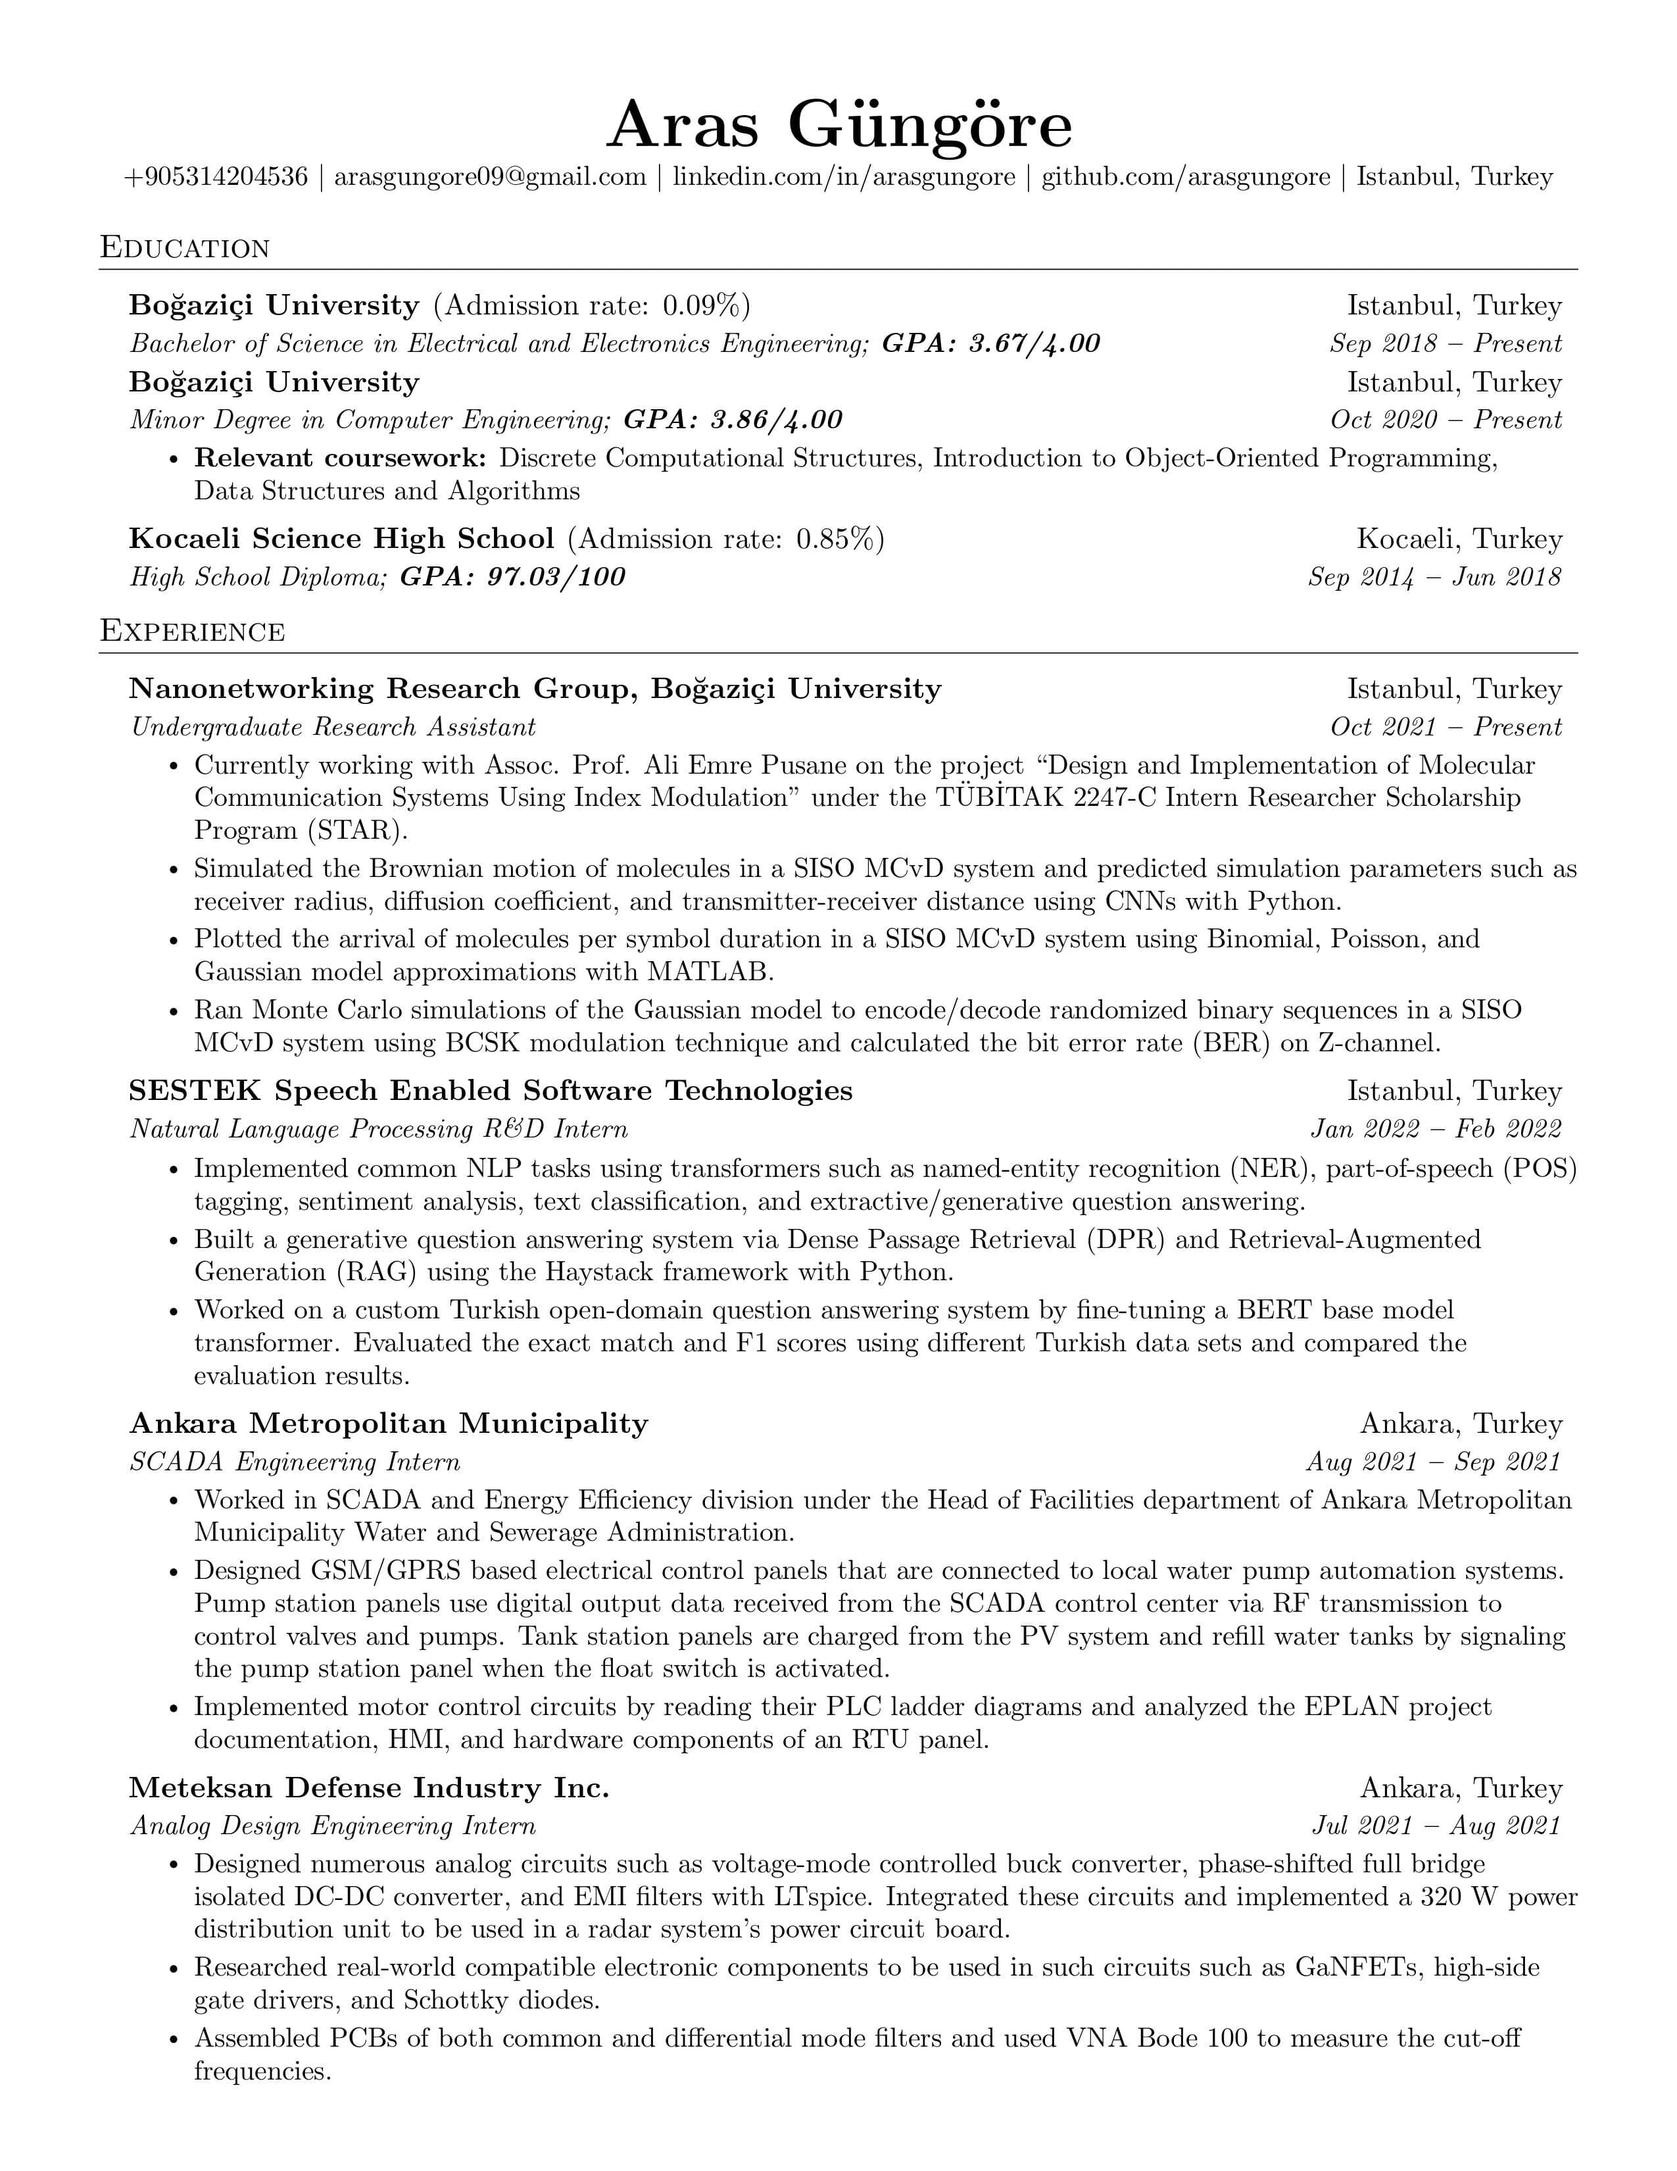
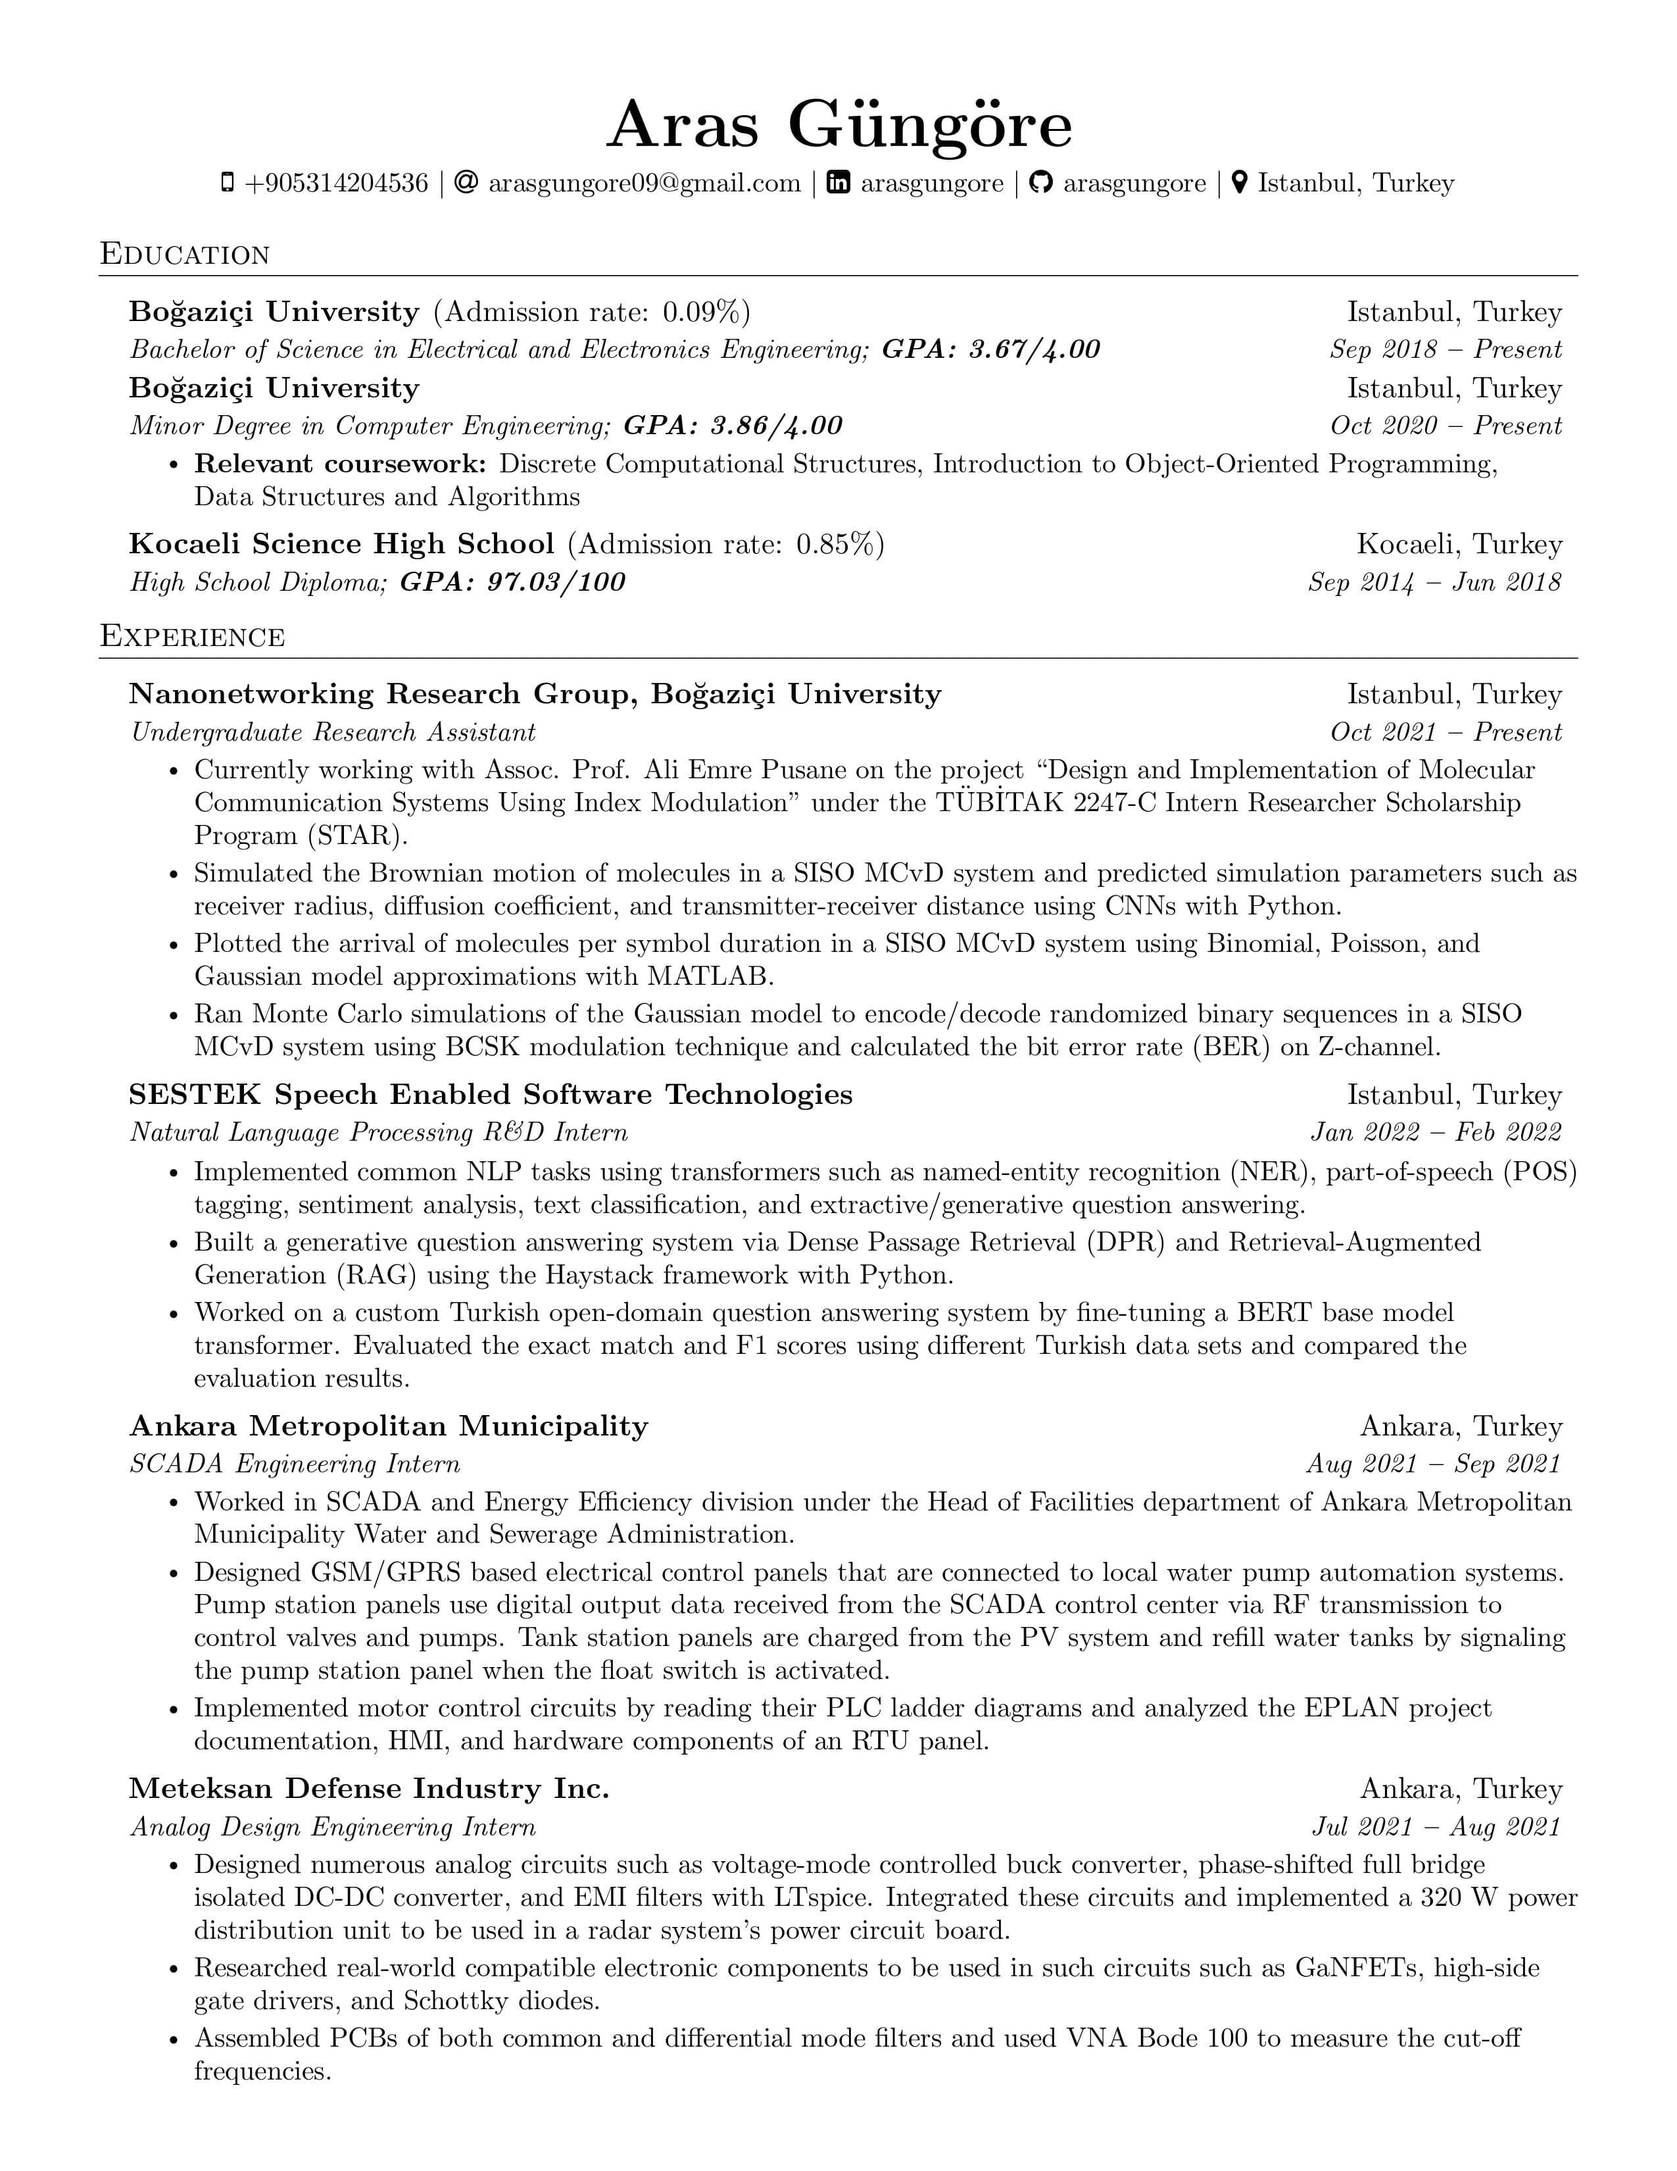
Updated contacts

diff --git a/main.tex b/main.tex
@@ -18,6 +18,7 @@
 \usepackage[english]{babel}
 \usepackage{tabularx}
 \usepackage{hyphenat}
+\usepackage{fontawesome}
 \input{glyphtounicode}
 
 
@@ -116,10 +117,16 @@
 %----------HEADING----------
 
 \begin{center}
-    \textbf{\Huge \scshape Aras Güngöre} \\ \vspace{1pt}
-    \small \href{tel:905314204536}{+905314204536} $|$ \href{mailto:arasgungore09@gmail.com}{arasgungore09@gmail.com} $|$ 
-    \href{https://www.linkedin.com/in/arasgungore}{linkedin.com/in/arasgungore} $|$
-    \href{https://github.com/arasgungore}{github.com/arasgungore} $|$ Istanbul, Turkey
+    \textbf{\Huge \scshape Aras Güngöre} \\ \vspace{3pt}
+    \small
+    \faMobile \hspace{.5pt} \href{tel:905314204536}{+905314204536}
+    $|$
+    \faAt \hspace{.5pt} \href{mailto:arasgungore09@gmail.com}{arasgungore09@gmail.com}
+    $|$
+    \faLinkedinSquare \hspace{.5pt} \href{https://www.linkedin.com/in/arasgungore}{arasgungore}
+    $|$
+    \faGithub \hspace{.5pt} \href{https://github.com/arasgungore}{arasgungore} $|$
+    \faMapMarker \hspace{.5pt} \href{https://www.google.com/maps/place/Bogazici+University+North+Campus/@41.0863067,29.0441352,15z/data=!4m5!3m4!1s0x0:0x9d2497b07c8edb2f!8m2!3d41.0863067!4d29.0441352}{Istanbul, Turkey}
 \end{center}
 
 
